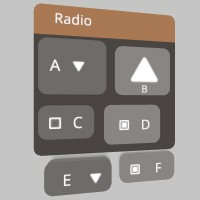
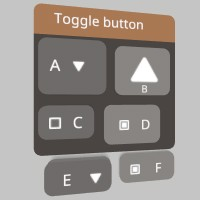
Ui screenshots arranged

Changed region(s): [[0.27, 0.06, 0.72, 0.15]]

diff --git a/src/lib.rs b/src/lib.rs
@@ -225,13 +225,14 @@ pub mod tools;
 /// [![Ui](https://raw.githubusercontent.com/mvvvv/StereoKit-rust/refs/heads/master/screenshots/ui.jpeg)](ui::Ui)
 /// [![Ui color_scheme](https://raw.githubusercontent.com/mvvvv/StereoKit-rust/refs/heads/master/screenshots/ui_color_scheme.jpeg)](ui::Ui::color_scheme)
 /// [![Ui button](https://raw.githubusercontent.com/mvvvv/StereoKit-rust/refs/heads/master/screenshots/ui_button.jpeg)](ui::Ui::button)
-/// [![Ui slider_behavior](https://raw.githubusercontent.com/mvvvv/StereoKit-rust/refs/heads/master/screenshots/ui_slider_behavior.jpeg)](ui::Ui::slider_behavior)
 /// [![Ui button_img](https://raw.githubusercontent.com/mvvvv/StereoKit-rust/refs/heads/master/screenshots/ui_button_img.jpeg)](ui::Ui::button_img)
 /// [![Ui button_round](https://raw.githubusercontent.com/mvvvv/StereoKit-rust/refs/heads/master/screenshots/ui_button_round.jpeg)](ui::Ui::button_round)
 /// [![Ui handle](https://raw.githubusercontent.com/mvvvv/StereoKit-rust/refs/heads/master/screenshots/ui_handle.jpeg)](ui::Ui::handle)
 /// [![Ui handle_begin](https://raw.githubusercontent.com/mvvvv/StereoKit-rust/refs/heads/master/screenshots/ui_handle_begin.jpeg)](ui::Ui::handle_begin)
 /// [![Ui hseparator](https://raw.githubusercontent.com/mvvvv/StereoKit-rust/refs/heads/master/screenshots/ui_hseparator.jpeg)](ui::Ui::hseparator)
 /// [![Ui hslider](https://raw.githubusercontent.com/mvvvv/StereoKit-rust/refs/heads/master/screenshots/ui_hslider.jpeg)](ui::Ui::hslider)
+/// [![Ui vslider](https://raw.githubusercontent.com/mvvvv/StereoKit-rust/refs/heads/master/screenshots/ui_vslider.jpeg)](ui::Ui::vslider)
+/// [![Ui slider_behavior](https://raw.githubusercontent.com/mvvvv/StereoKit-rust/refs/heads/master/screenshots/ui_slider_behavior.jpeg)](ui::Ui::slider_behavior)
 /// [![Ui image](https://raw.githubusercontent.com/mvvvv/StereoKit-rust/refs/heads/master/screenshots/ui_image.jpeg)](ui::Ui::image)
 /// [![Ui input](https://raw.githubusercontent.com/mvvvv/StereoKit-rust/refs/heads/master/screenshots/ui_input.jpeg)](ui::Ui::input)
 /// [![Ui label](https://raw.githubusercontent.com/mvvvv/StereoKit-rust/refs/heads/master/screenshots/ui_label.jpeg)](ui::Ui::label)
@@ -246,11 +247,10 @@ pub mod tools;
 /// [![Ui push_tint](https://raw.githubusercontent.com/mvvvv/StereoKit-rust/refs/heads/master/screenshots/ui_push_tint.jpeg)](ui::Ui::push_tint)
 /// [![Ui gen_quadrant_mesh](https://raw.githubusercontent.com/mvvvv/StereoKit-rust/refs/heads/master/screenshots/ui_gen_quadrant_mesh.jpeg)](ui::Ui::gen_quadrant_mesh)
 /// [![Ui radio button](https://raw.githubusercontent.com/mvvvv/StereoKit-rust/refs/heads/master/screenshots/ui_radio.jpeg)](ui::Ui::radio_img)
-/// [![Ui draw_element](https://raw.githubusercontent.com/mvvvv/StereoKit-rust/refs/heads/master/screenshots/ui_draw_element.jpeg)](ui::Ui::draw_element)
-/// [![Ui set_theme_color](https://raw.githubusercontent.com/mvvvv/StereoKit-rust/refs/heads/master/screenshots/ui_set_theme_color.jpeg)](ui::Ui::set_theme_color)  
-/// [![Ui text](https://raw.githubusercontent.com/mvvvv/StereoKit-rust/refs/heads/master/screenshots/ui_text.jpeg)](ui::Ui::text)
 /// [![Ui toggle](https://raw.githubusercontent.com/mvvvv/StereoKit-rust/refs/heads/master/screenshots/ui_toggle.jpeg)](ui::Ui::toggle)
-/// [![Ui vslider](https://raw.githubusercontent.com/mvvvv/StereoKit-rust/refs/heads/master/screenshots/ui_vslider.jpeg)](ui::Ui::vslider)
+/// [![Ui draw_element](https://raw.githubusercontent.com/mvvvv/StereoKit-rust/refs/heads/master/screenshots/ui_draw_element.jpeg)](ui::Ui::draw_element)
+/// [![Ui set_theme_color](https://raw.githubusercontent.com/mvvvv/StereoKit-rust/refs/heads/master/screenshots/ui_set_theme_color.jpeg)](ui::Ui::set_theme_color)
+/// [![Ui text](https://raw.githubusercontent.com/mvvvv/StereoKit-rust/refs/heads/master/screenshots/ui_text.jpeg)](ui::Ui::text)
 /// [![Ui window](https://raw.githubusercontent.com/mvvvv/StereoKit-rust/refs/heads/master/screenshots/ui_window.jpeg)](ui::Ui::window_begin)
 pub mod ui;
 

diff --git a/src/ui.rs b/src/ui.rs
@@ -4082,7 +4082,7 @@ impl Ui {
     ///
     /// filename_scr = "screenshots/ui_toggle.jpeg";
     /// test_screenshot!( // !!!! Get a proper main loop !!!!
-    ///     Ui::window_begin("Radio", &mut window_pose, None, None, None);
+    ///     Ui::window_begin("Toggle button", &mut window_pose, None, None, None);
     ///     Ui::toggle_img("A", &mut choiceA, &off, &on, Some(UiBtnLayout::Right),
     ///                    Some([0.06, 0.05].into()));
     ///     Ui::same_line();
